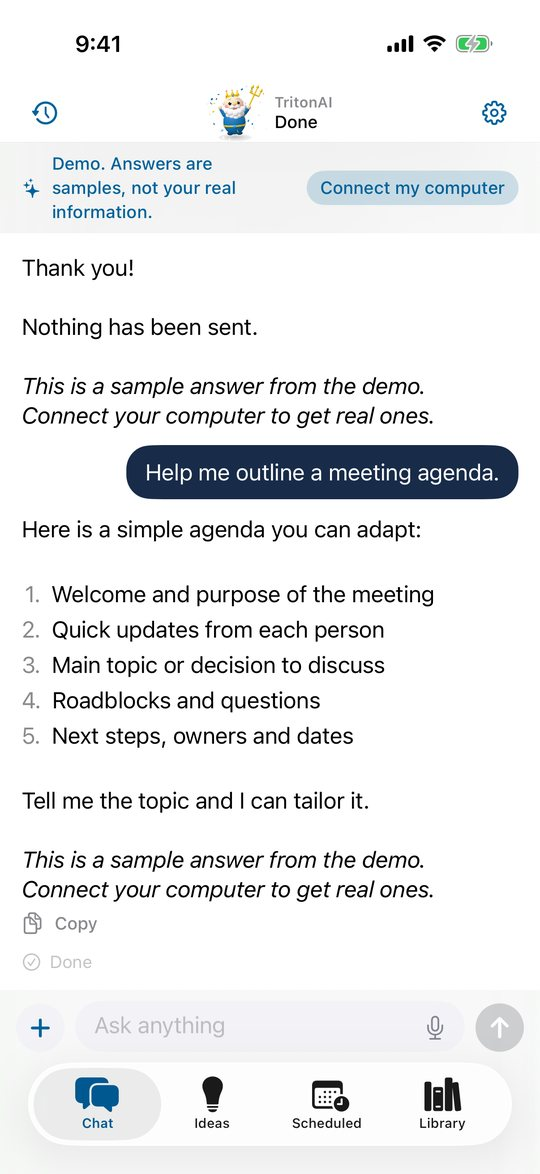
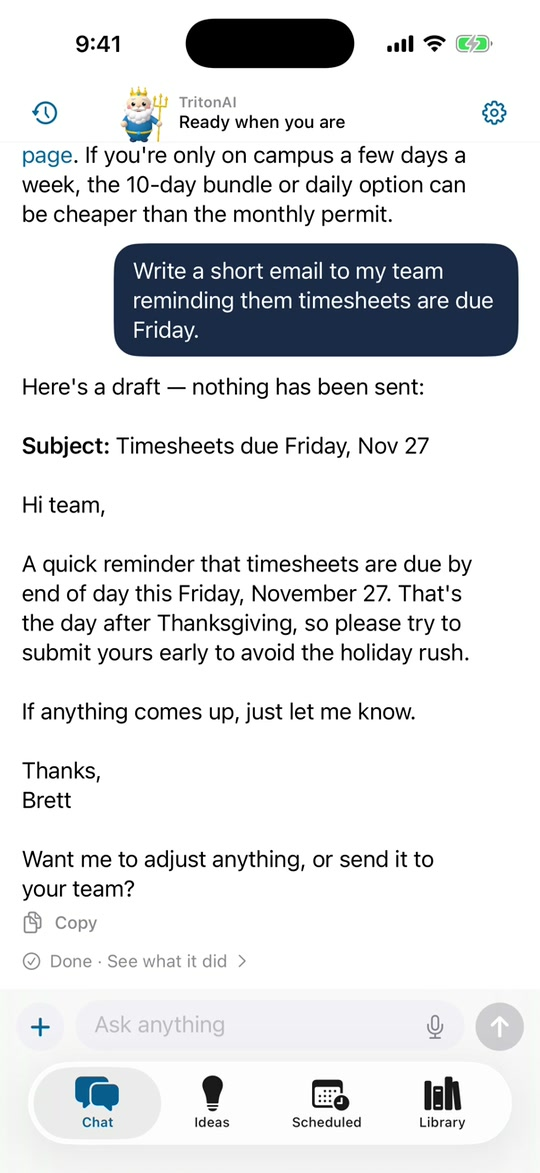
Drop sample-data labels; use screenshots from a real session
Claude-Session: https://claude.ai/code/session_01Np5LLGwxWsHBdf3EWVDB9q

diff --git a/index.html b/index.html
@@ -47,7 +47,7 @@
     </div>
 
     <div class="phone-stage">
-      <div class="phone" aria-label="A sample conversation you can try">
+      <div class="phone" aria-label="A conversation you can try">
         <div class="phone-top">
           <div class="mascot sm" data-clip="ready" id="demoMascot"></div>
           <div class="who"><span>TritonAI</span><strong id="demoStatus" aria-live="polite">Ready when you are</strong></div>
@@ -62,7 +62,6 @@
         </div>
         <div class="composer" aria-hidden="true"><span>+</span><em>Ask anything</em><b>↑</b></div>
       </div>
-      <p class="fine center">Illustration with sample data.</p>
     </div>
   </div>
 </section>
@@ -101,7 +100,6 @@
         <div class="ask" id="stAsk"></div>
         <div class="sources" id="stSources"></div>
         <div class="result" id="stResult"></div>
-        <p class="stage-note">Illustration with sample data. What it can reach depends on the accounts you have connected.</p>
       </div>
     </div>
   </div>
@@ -228,7 +226,7 @@
     <h2>Four tabs. Most days you need one.</h2>
   </div>
   <div class="shots" tabindex="0" aria-label="Screenshots of the app. Scroll sideways for more.">
-    <figure><img src="assets/shot-chat.jpg" width="540" height="1174" loading="lazy" alt="The chat, with the assistant's status at the top and a draft agenda"><figcaption><strong>Chat</strong>One running conversation</figcaption></figure>
+    <figure><img src="assets/shot-chat.jpg" width="540" height="1174" loading="lazy" alt="The chat, with the assistant's status at the top and a draft email"><figcaption><strong>Chat</strong>One running conversation</figcaption></figure>
     <figure><img src="assets/shot-ideas.jpg" width="540" height="1174" loading="lazy" alt="The Ideas tab with suggested requests"><figcaption><strong>Ideas</strong>Suggested requests, ready to send</figcaption></figure>
     <figure><img src="assets/shot-scheduled.jpg" width="540" height="1174" loading="lazy" alt="The Scheduled tab with a weekday request"><figcaption><strong>Scheduled</strong>Requests that run on their own</figcaption></figure>
     <figure><img src="assets/shot-library.jpg" width="540" height="1174" loading="lazy" alt="The Library tab listing past answers"><figcaption><strong>Library</strong>Everything it wrote for you</figcaption></figure>
@@ -244,7 +242,7 @@
       <li><span>2</span><h3>Scan the code</h3><p>Point your iPhone at the screen. There is no account to create and nothing to sign in to.</p></li>
       <li><span>3</span><h3>Ask</h3><p>Leave the Harness open on your computer. With Tailscale on both devices, it works away from your Wi-Fi too.</p></li>
     </ol>
-    <p class="fine dark">The <a href="https://tritonai.ucsd.edu/developer-apis/harness-phone-app.html">setup guide</a> has each step in detail. The app also includes a demo with sample answers, so you can look around before connecting anything.</p>
+    <p class="fine dark">The <a href="https://tritonai.ucsd.edu/developer-apis/harness-phone-app.html">setup guide</a> has each step in detail. The app also includes a demo, so you can look around before connecting anything.</p>
   </div>
 </section>
 
@@ -271,7 +269,7 @@
     <details><summary>Does my computer have to be on?</summary><p>Yes. Your computer does the work, so it needs to be awake with TritonAI Harness open. If it is not reachable, the app holds your message and sends it when the connection is back.</p></details>
     <details><summary>Do I have to be on the same Wi-Fi?</summary><p>By default, yes. With Tailscale on both your phone and your computer, you can use the app from anywhere.</p></details>
     <details><summary>Can it send email or change my calendar on its own?</summary><p>No. It writes drafts and asks before acting. What it can reach depends on what you have turned on in TritonAI Harness on your computer.</p></details>
-    <details><summary>Can I try it without a computer?</summary><p>Yes. Choose "Try a demo first" on the opening screen. The demo uses sample answers and touches none of your information.</p></details>
+    <details><summary>Can I try it without a computer?</summary><p>Yes. Choose "Try a demo first" on the opening screen. The demo touches none of your information.</p></details>
     <details><summary>What does it cost?</summary><p>Nothing. The app is free.</p></details>
     <details><summary>Where do I get help?</summary><p>The <a href="https://tritonai.ucsd.edu/developer-apis/harness-phone-app.html">setup and support page</a> has step-by-step instructions, or email <a href="mailto:tritonai@ucsd.edu">tritonai@ucsd.edu</a>.</p></details>
   </div>

diff --git a/site.js b/site.js
@@ -66,7 +66,7 @@
       say('me', chip.textContent);
       var chain = Promise.resolve();
       answer.steps.forEach(function (step) { chain = chain.then(function () { mood(step[0], step[1]); return wait(1500); }); });
-      chain.then(function () { say('it', answer.html + '<em>Sample answer.</em>'); mood('celebrate', 'Done'); return wait(2600); })
+      chain.then(function () { say('it', answer.html); mood('celebrate', 'Done'); return wait(2600); })
         .then(function () { mood('ready', 'Ready when you are'); chips.forEach(function (c) { c.disabled = false; }); });
     });
   });
